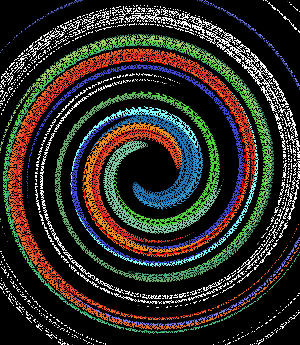
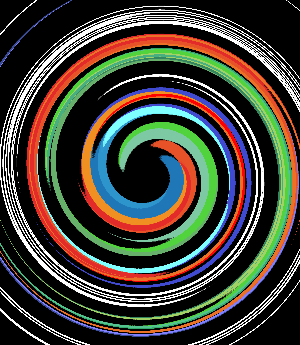
fix : vortex

diff --git a/src/vortex/main.cpp b/src/vortex/main.cpp
@@ -21,7 +21,7 @@ int main()
             double rayon{sqrt(pow(x - positionCenter.x, 2) + pow(y - positionCenter.y, 2))};
             glm::vec2 newPoint{rotated(point, positionCenter, rayon * 0.1f)};
             if (newPoint.x < image.width() && newPoint.x >= 0 && newPoint.y < image.height() && newPoint.y >= 0)
-                voidImage.pixel(newPoint.x, newPoint.y) = image.pixel(x, y);
+                voidImage.pixel(x, y) = image.pixel(newPoint.x, newPoint.y);
         }
     }
     voidImage.save("output/pouet.png");
